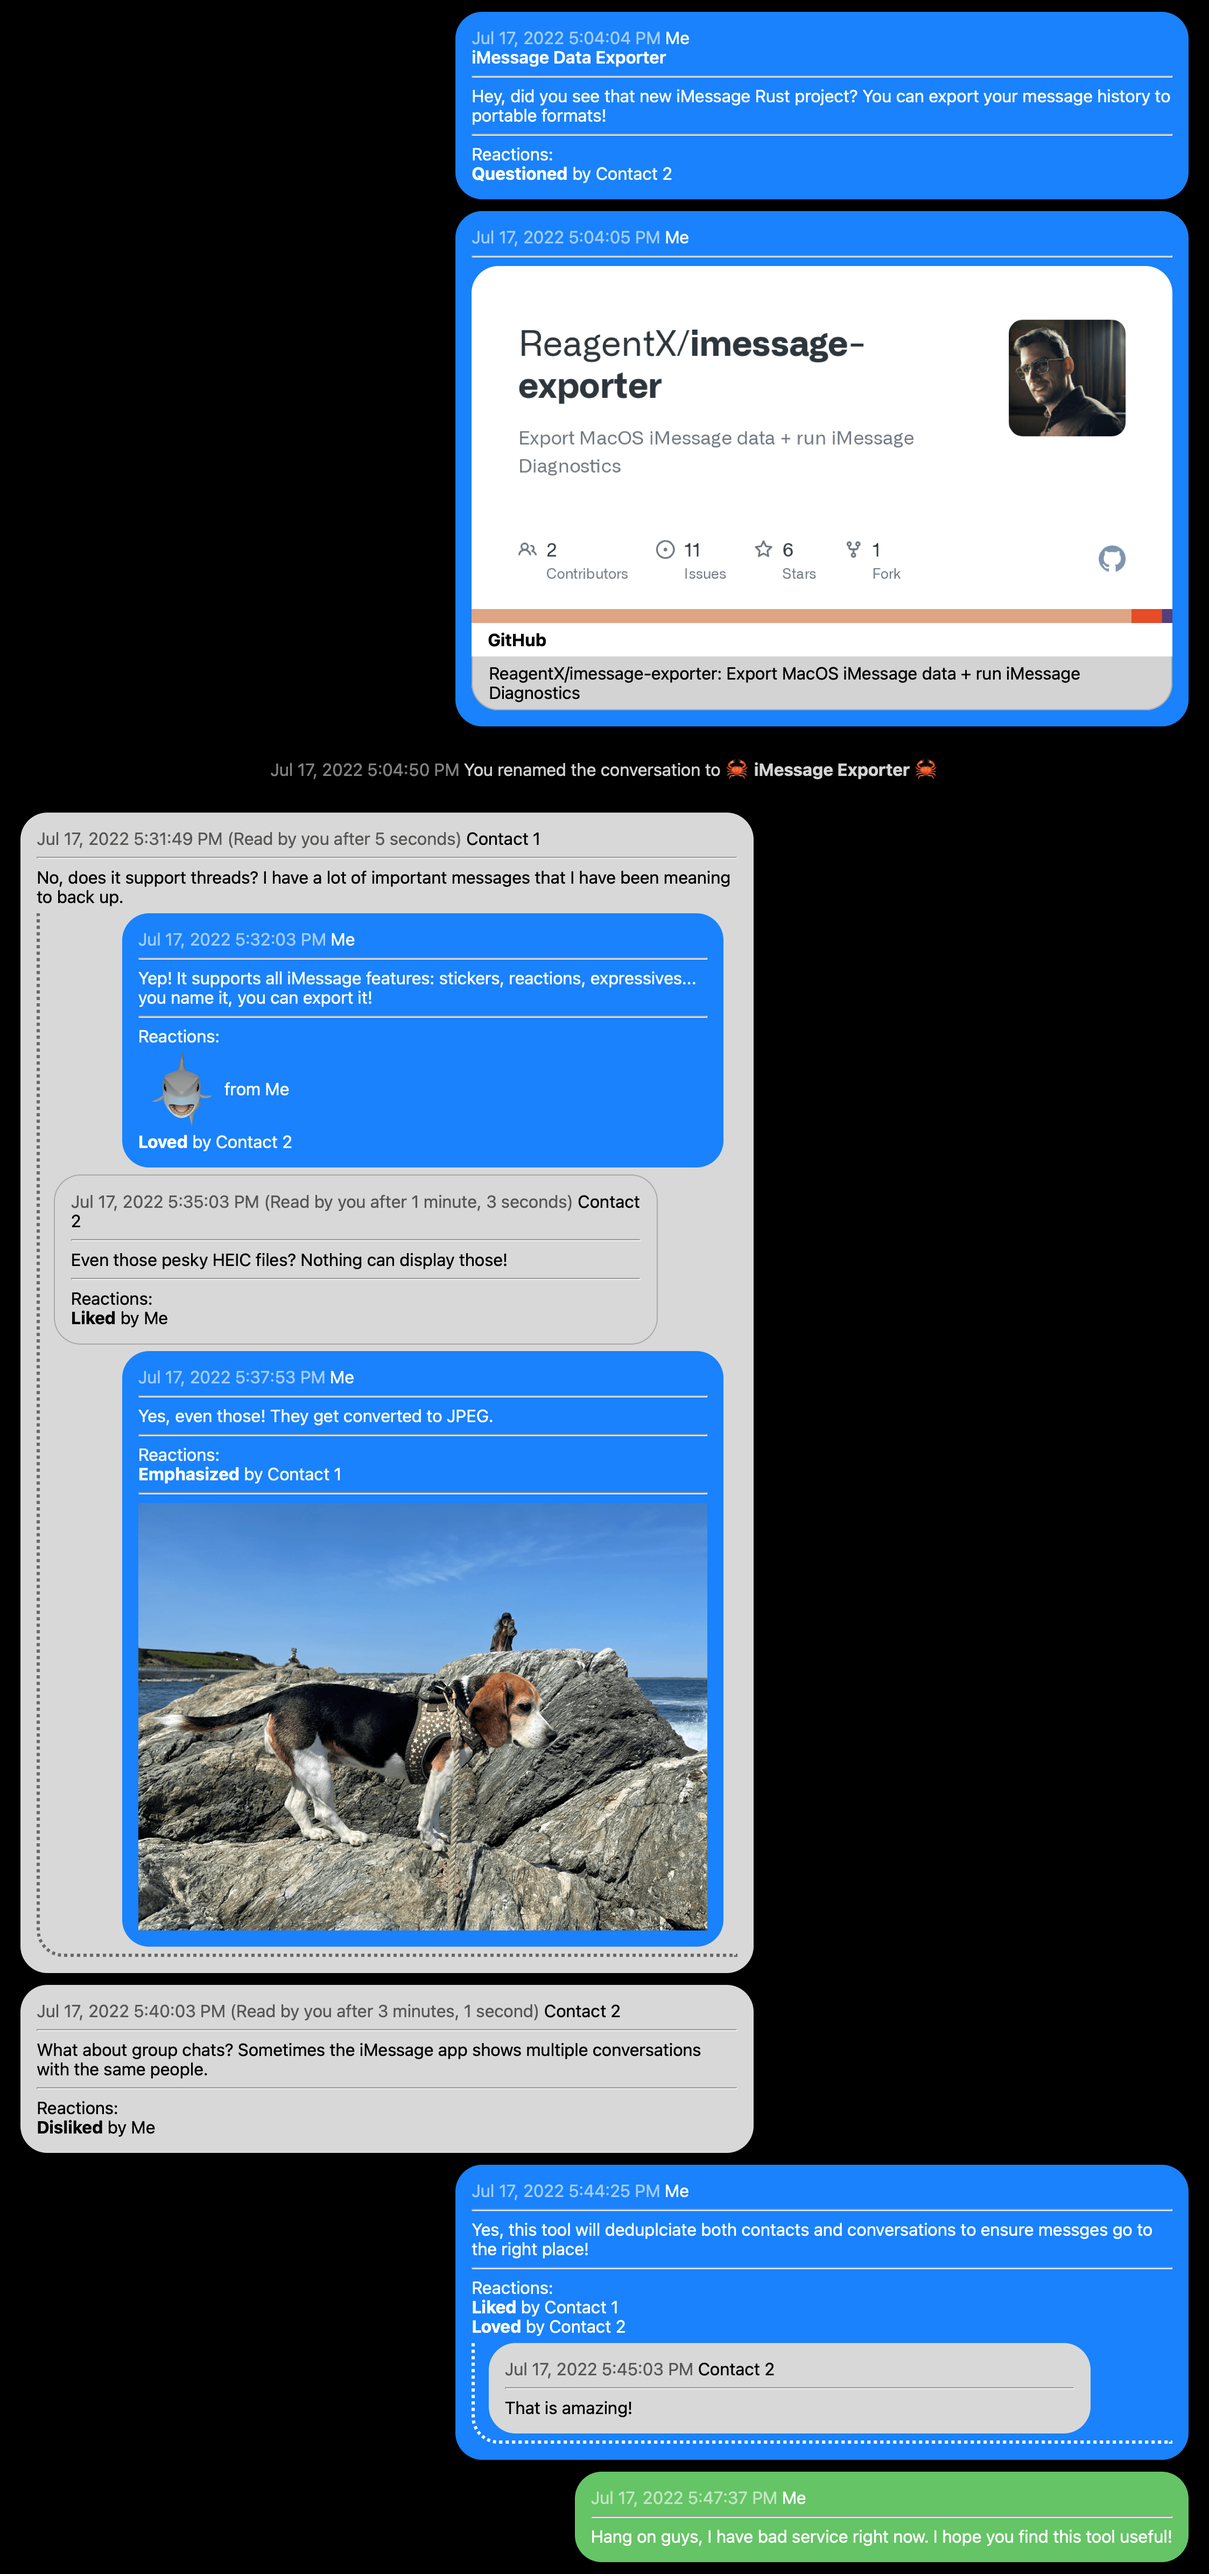
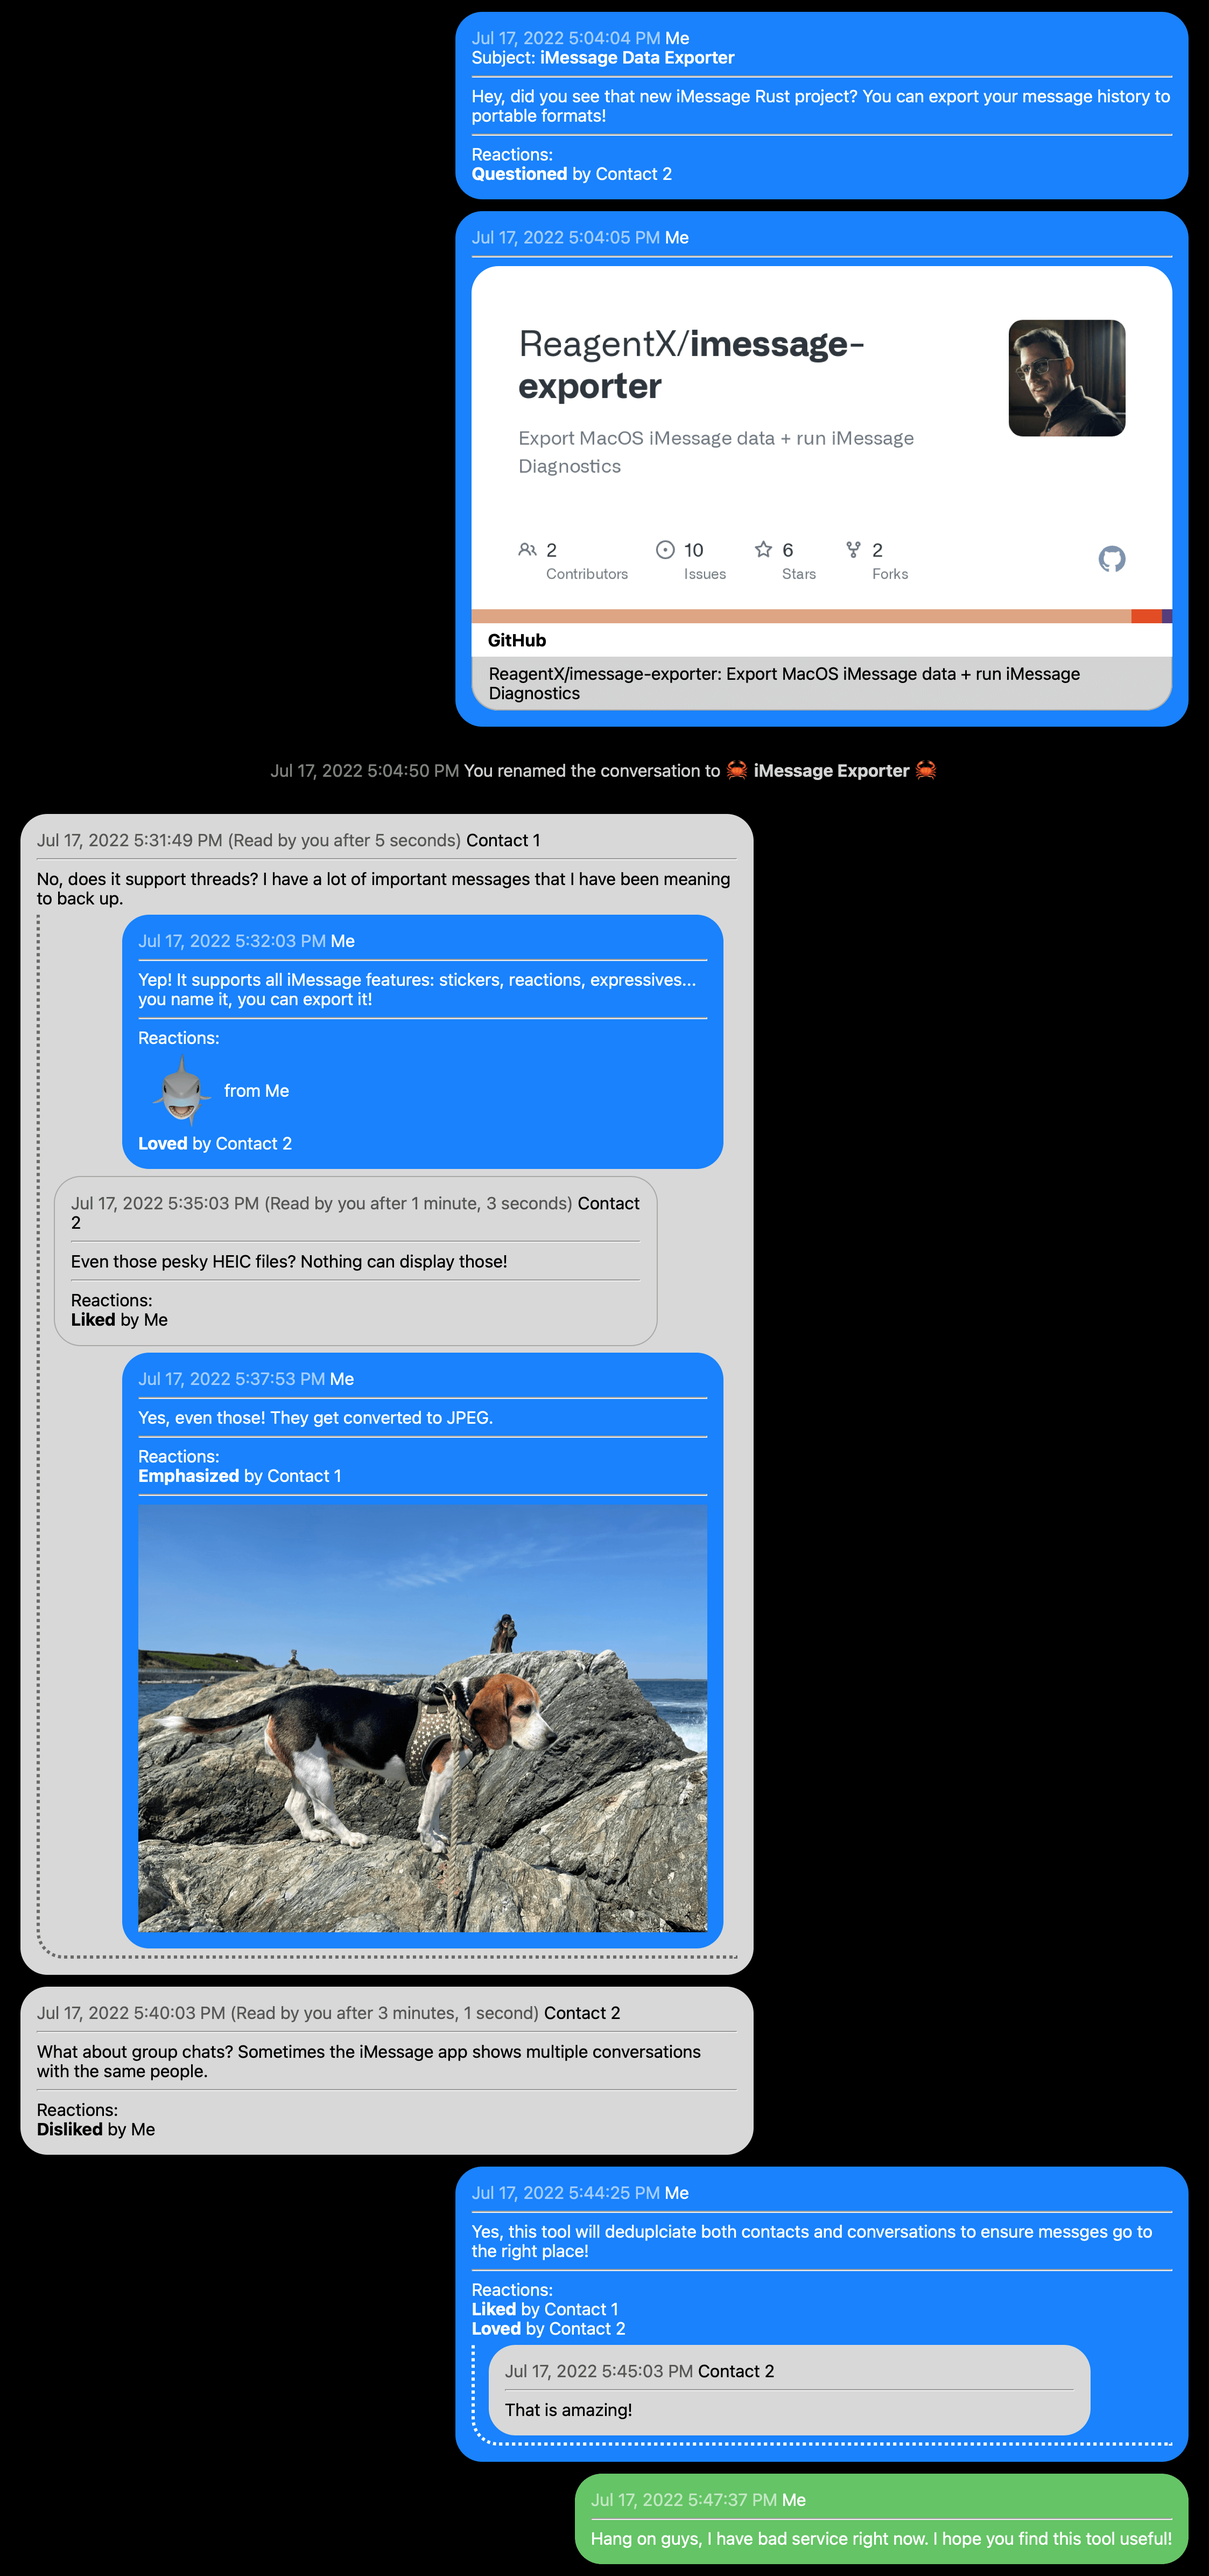
Consistency with exported html

diff --git a/imessage-exporter/src/exporters/resources/example.html b/imessage-exporter/src/exporters/resources/example.html
@@ -8,7 +8,7 @@
         <p><span class="timestamp">Jul 17, 2022 5:04:04 PM</span>
             <span class="sender">Me</span>
         </p>
-        <span class="subject">iMessage Data Exporter</span>
+        Subject: <span class="subject">iMessage Data Exporter</span>
         <hr>
         <div class="message_part"><span class="bubble">Hey, did you see that new iMessage Rust project? You can export your message history to portable formats!</span></div>
         <div class="reactions">
